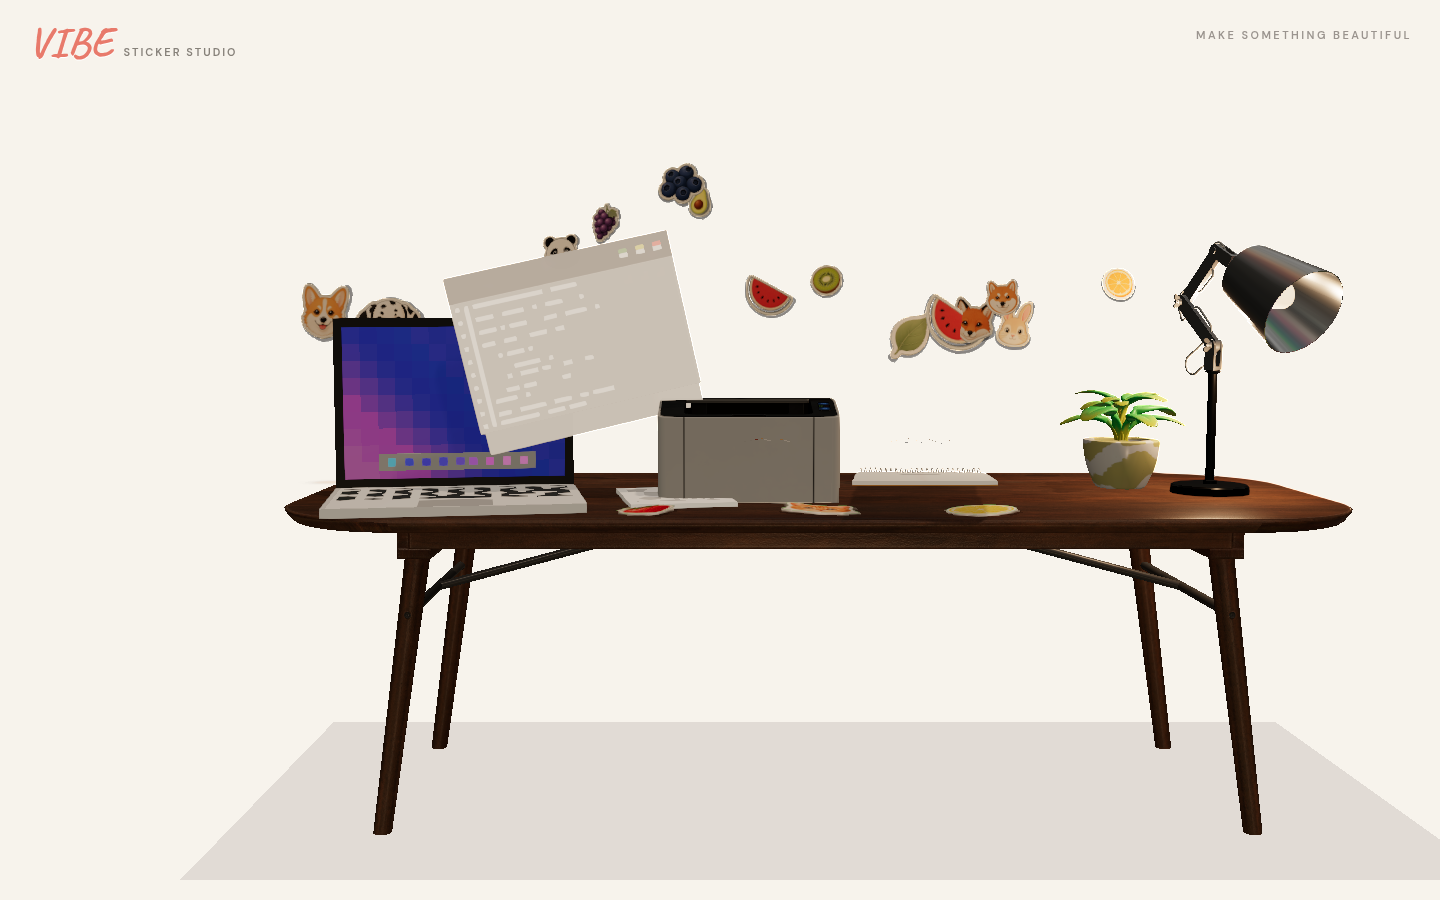
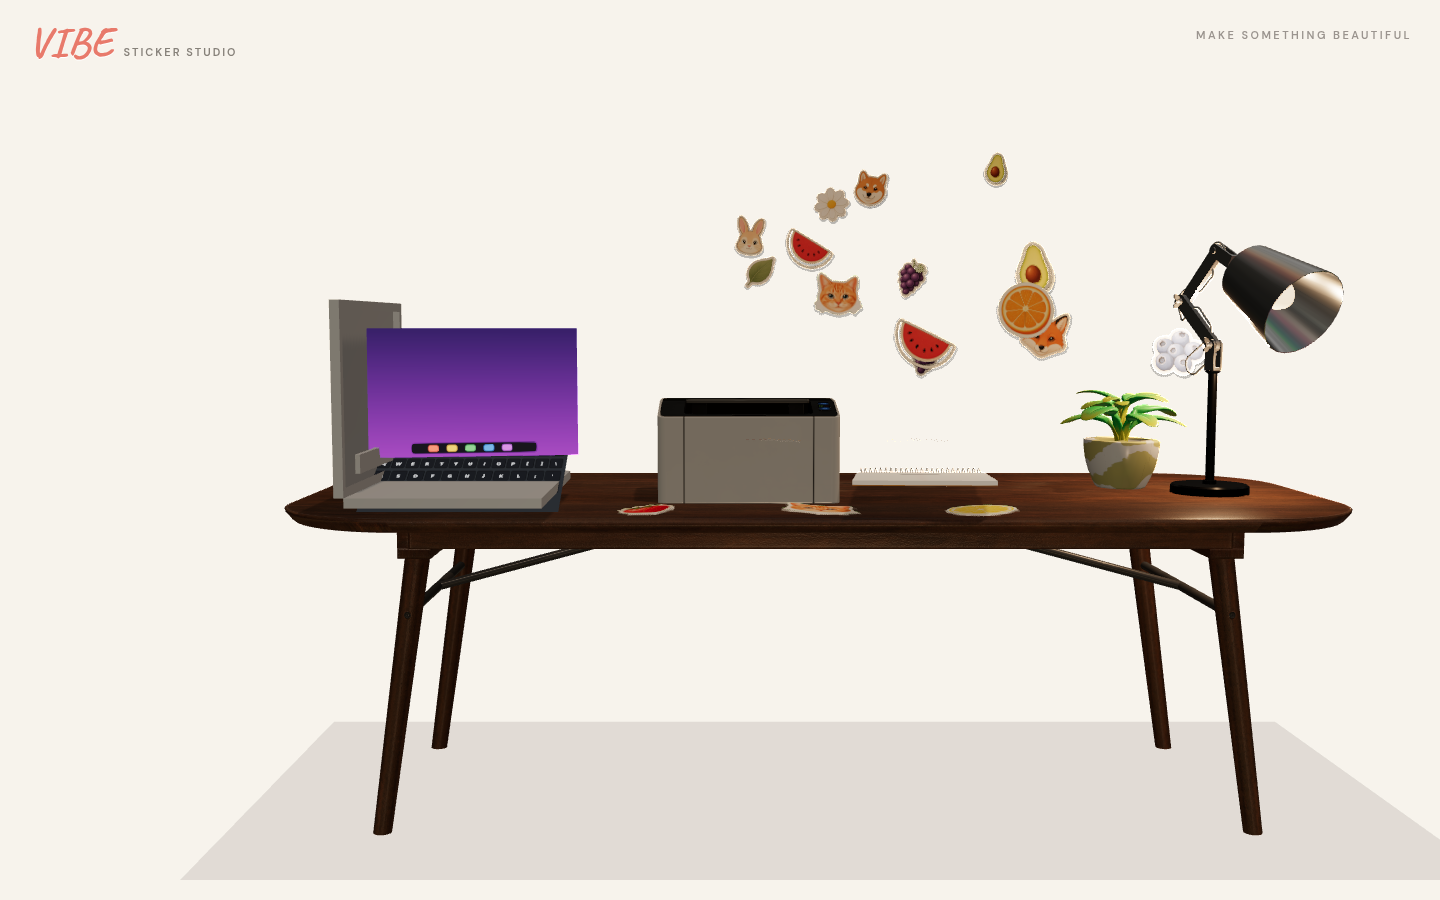
fix(studio): readable keycaps, kill glass pane, animal 0.22m keepout
- Replace palette-smear Object_8 with tipped keyPlane + keycaps albedo
- Remove transmission screen glass; opaque screenPlane; foot blob on deskTop
- XZ laptop keepout 0.22m purge for dog/animal floats; MSAA sticker edges
- Overwrite refs/qa-desk-layout-v2.png (also /workspace/studio-qa-shots/)

diff --git a/public/studio.html b/public/studio.html
@@ -248,8 +248,15 @@ ground.castShadow = false;
 ground.visible = false; // pure cream void — no wall/floor split
 scene.add(ground);
 
-/* ========== post: SMAA ========== */
-const composer = new EffectComposer(renderer);
+/* ========== post: MSAA RT + SMAA (LAYOUT §3 sticker edges) ========== */
+const _drawSize = new THREE.Vector2();
+renderer.getDrawingBufferSize(_drawSize);
+const composerRT = new THREE.WebGLRenderTarget(_drawSize.x, _drawSize.y, {
+  samples: Math.min(4, renderer.capabilities.maxSamples || 4),
+  type: THREE.HalfFloatType,
+  depthBuffer: true,
+});
+const composer = new EffectComposer(renderer, composerRT);
 composer.addPass(new RenderPass(scene, camera));
 const smaaPass = new SMAAPass(
   Math.floor(innerWidth * renderer.getPixelRatio()),
@@ -527,42 +534,90 @@ async function mountProps(){
           if (mats.some(m=>m && /palette\.001/i.test(m.name||''))) lidNode = o.parent || o;
         });
       }
-      root.traverse((o)=>{
-        if (!o.isMesh || !o.material) return;
-        const mats = Array.isArray(o.material) ? o.material : [o.material];
-        for (const m of mats){
-          if (!m) continue;
-          const map = m.map;
-          if (map){
-            map.colorSpace = THREE.SRGBColorSpace;
-            map.generateMipmaps = false;
-            map.minFilter = THREE.NearestFilter;
-            map.magFilter = THREE.NearestFilter;
-            map.wrapS = THREE.ClampToEdgeWrapping;
-            map.wrapT = THREE.ClampToEdgeWrapping;
-            map.anisotropy = 1;
-            map.needsUpdate = true;
-          }
-          if (m.emissiveIntensity != null && m.emissiveIntensity > 4){
-            m.emissiveIntensity = Math.min(m.emissiveIntensity, 1.2);
-          }
-          // Screen micro-glow (palette.001)
-          const mn=(m.name||o.name||'').toLowerCase();
-          if (/palette\.001|screen|display|lcd/.test(mn)){
-            if (!m.emissive) m.emissive = new THREE.Color(0xFFE8D0);
-            else m.emissive.lerp(new THREE.Color(0xFFE8D0), 0.4);
-            m.emissiveIntensity = Math.min(0.95, Math.max(0.45, m.emissiveIntensity || 0.6));
-            m.envMapIntensity = Math.max(0.8, m.envMapIntensity || 0.8);
-            // Kill ghost "floating window" from Sketchfab transmission glass
-            if (m.transmission != null) m.transmission = 0;
-            if (m.transparent) { m.opacity = Math.max(m.opacity ?? 1, 0.92); }
-            m.depthWrite = true;
-          } else {
-            m.envMapIntensity = Math.max(0.55, m.envMapIntensity || 0.55);
-          }
-          m.needsUpdate = true;
+      // Remap planar UVs from local bbox → readable 2D albedo (palette 256×1 cannot show keycaps)
+      const remapUV = (mesh, forceAxes) => {
+        const geo = mesh.geometry;
+        if (!geo || !geo.attributes.position) return;
+        if (!geo.attributes.uv) geo.setAttribute('uv', new THREE.BufferAttribute(new Float32Array(geo.attributes.position.count * 2), 2));
+        geo.computeBoundingBox();
+        const bb = geo.boundingBox;
+        const size = new THREE.Vector3(); bb.getSize(size);
+        let uAx, vAx;
+        if (forceAxes){ uAx = forceAxes[0]; vAx = forceAxes[1]; }
+        else {
+          const axes = [['x', size.x], ['y', size.y], ['z', size.z]].sort((a,b)=>b[1]-a[1]);
+          uAx = axes[0][0]; vAx = axes[1][0];
         }
+        const pos = geo.attributes.position;
+        const uv = geo.attributes.uv;
+        const minU = bb.min[uAx], spanU = (bb.max[uAx]-bb.min[uAx]) || 1;
+        const minV = bb.min[vAx], spanV = (bb.max[vAx]-bb.min[vAx]) || 1;
+        for (let i = 0; i < pos.count; i++){
+          const p = { x: pos.getX(i), y: pos.getY(i), z: pos.getZ(i) };
+          uv.setXY(i, (p[uAx]-minU)/spanU, 1 - (p[vAx]-minV)/spanV);
+        }
+        uv.needsUpdate = true;
+      };
+      const loadLaptopTex = (url) => new Promise((resolve) => {
+        texLoader.load(url, (tex) => {
+          tex.colorSpace = THREE.SRGBColorSpace;
+          tex.generateMipmaps = true;
+          tex.minFilter = THREE.LinearMipmapLinearFilter;
+          tex.magFilter = THREE.LinearFilter;
+          tex.anisotropy = Math.min(8, renderer.capabilities.getMaxAnisotropy());
+          tex.wrapS = tex.wrapT = THREE.ClampToEdgeWrapping;
+          tex.needsUpdate = true;
+          resolve(tex);
+        }, undefined, () => resolve(null));
       });
+      // Sync load via already-cached loader path — use TextureLoader sync pattern with await outside
+      // Materials applied after textures resolve below
+      const keyTexP = loadLaptopTex(`${ASSET}/glb/laptop/textures/keycaps_baseColor.png`);
+      const scrTexP = loadLaptopTex(`${ASSET}/glb/laptop/textures/screen_desktop.png`);
+      // stash promises on wrap; await before continue is hard inside sync loop — use then
+      await Promise.all([keyTexP, scrTexP]).then(([keyTex, scrTex]) => {
+        root.traverse((o)=>{
+          if (!o.isMesh || !o.material) return;
+          const mats = Array.isArray(o.material) ? o.material : [o.material];
+          for (let mi = 0; mi < mats.length; mi++){
+            let m = mats[mi];
+            if (!m) continue;
+            const mn=((m.name||'')+' '+(o.name||'')+' '+(o.parent?.name||'')).toLowerCase();
+            if (/palette\.001|screen|display|lcd|laptop\.001|laptop001/.test(mn)){
+              // REMOVE transmission glass entirely (was floating IDE pane even when visible=false in some paths)
+              if (m.transmission != null) m.transmission = 0;
+              m.transparent = false; m.opacity = 1;
+              o.visible = false;
+              o.parent?.remove(o);
+              // Thin screen plane added once after traverse (see below)
+              wrap.userData._needScreen = true;
+              wrap.userData._scrTex = scrTex;
+              continue;
+            }
+            if (/palette\.002|laptop\.002|laptop002/.test(mn)){
+              o.visible = false; // author key UVs = smear; replace with deck plane
+              wrap.userData._needKeys = true;
+              wrap.userData._keyTex = keyTex;
+              continue;
+            }
+            // Chassis palette → solid silver (256×1 strip = wavy smear on deck)
+            if (/(^|\s)palette(\s|$)/.test(mn) && !/palette\.00/.test(mn)){
+              m.map = null;
+              m.color = new THREE.Color(0xC5C9CE);
+              m.roughness = 0.45;
+              m.metalness = 0.35;
+              m.emissive = new THREE.Color(0x000000);
+              m.emissiveIntensity = 0;
+              m.transparent = false;
+              m.opacity = 1;
+              if (m.transmission != null) m.transmission = 0;
+              m.envMapIntensity = 0.85;
+              m.needsUpdate = true;
+            }
+          }
+        });
+      });
+
       // Hinge 105° + face camera + seat (LAYOUT-STICKER-LOCK / v2 front)
       {
         // Tip lid PAST upright toward open 105° (author ≈90°; +15° opens further)
@@ -615,6 +670,35 @@ async function mountProps(){
           wrap.userData.screenFacing = bestScore;
           wrap.updateMatrixWorld(true);
         }
+        // Build readable screen as thin plane on wrap (after yaw), facing camera
+        if (wrap.userData._needScreen && wrap.userData._scrTex && !wrap.userData._screenPlane){
+          const scrTex = wrap.userData._scrTex;
+          const mat = new THREE.MeshStandardMaterial({
+            name: 'screen_desktop',
+            map: scrTex,
+            emissive: new THREE.Color(0xffffff),
+            emissiveMap: scrTex,
+            emissiveIntensity: 0.7,
+            roughness: 0.4,
+            metalness: 0,
+            side: THREE.FrontSide,
+            transparent: false,
+            depthWrite: true,
+          });
+          const plane = new THREE.Mesh(new THREE.PlaneGeometry(0.42, 0.26), mat);
+          plane.name = 'screenPlane';
+          // place above keyboard toward open lid
+          plane.position.set(0, 0.22, -0.02);
+          wrap.add(plane);
+          plane.lookAt(plane.worldToLocal(camera.position.clone()));
+          // better: face +Z of wrap which faces cam after yaw
+          plane.rotation.set(0, 0, 0);
+          plane.position.set(0.02, 0.20, 0.12);
+          // orient plane normal toward camera
+          const toCam = camera.position.clone().sub(plane.getWorldPosition(new THREE.Vector3())).normalize();
+          plane.lookAt(plane.localToWorld(new THREE.Vector3(0,0,0)).add(toCam));
+          wrap.userData._screenPlane = plane;
+        }
       }
       {
         const bbH = new THREE.Box3().setFromObject(root);
@@ -624,6 +708,23 @@ async function mountProps(){
           fitProp(root, 0.82, 'bottom', 'xz');
         }
       }
+
+        if (wrap.userData._needKeys && wrap.userData._keyTex && !wrap.userData._keyPlane){
+          // Tip toward camera (~28°) so elev-5° front view can read glyphs (flat deck foreshortens to smear-grey)
+          const keyMat = new THREE.MeshBasicMaterial({
+            name: 'keycaps',
+            map: wrap.userData._keyTex,
+            side: THREE.DoubleSide,
+            toneMapped: false,
+          });
+          const kp = new THREE.Mesh(new THREE.PlaneGeometry(0.40, 0.26), keyMat);
+          kp.name = 'keyPlane';
+          kp.rotation.x = -Math.PI / 2 + 0.48;
+          kp.position.set(0.0, 0.028, 0.10);
+          wrap.add(kp);
+          wrap.userData._keyPlane = kp;
+        }
+
       // Force seat on deskTop local Y=0 (never float)
       {
         wrap.position.x = cfg.pos[0];
@@ -645,10 +746,13 @@ async function mountProps(){
         if (max2.x > deskHalfX) wrap.position.x -= (max2.x - deskHalfX) + 0.02;
         if (min2.z < -deskHalfZ) wrap.position.z += (-deskHalfZ - min2.z) + 0.02;
         if (max2.z > deskHalfZ) wrap.position.z -= (max2.z - deskHalfZ) + 0.02;
-        const foot = makeBlobShadow(0.30);
-        foot.position.set(0.012, 0.001, 0.012);
-        foot.material.opacity = 0.22;
-        wrap.add(foot);
+        // Contact blob on deskTop (NOT wrap) — parenting to wrap made it a vertical "IDE window"
+        const foot = makeBlobShadow(0.32);
+        foot.rotation.x = -Math.PI / 2;
+        const fp = new THREE.Vector3(cfg.pos[0], 0.002, cfg.pos[2]);
+        foot.position.copy(fp);
+        foot.material.opacity = 0.20;
+        deskTop.add(foot);
       }
     }
 
@@ -1102,7 +1206,8 @@ function createFlatThickSticker(w, h, tex, thickness = 0.004){
       roughness: isFront ? 0.74 : 0.80,
       metalness: 0.0,
       transparent: true,
-      alphaTest: 0.22, // softer edge w/ SMAA (was 0.42 jagged)
+      alphaTest: 0.35,
+      alphaToCoverage: true, // needs MSAA RT — smooth die-cut edge
       depthWrite: isFront,
       depthTest: true,
       polygonOffset: true,
@@ -1124,8 +1229,9 @@ function createFlatThickSticker(w, h, tex, thickness = 0.004){
     map: edgeTex,
     color: 0x1a1008,
     transparent: true,
-    opacity: 0.48,
-    alphaTest: 0.22,
+    opacity: 0.40,
+    alphaTest: 0.35,
+    alphaToCoverage: true,
     depthWrite: false,
     side: THREE.DoubleSide,
   });
@@ -1197,11 +1303,15 @@ function laptopKeepoutCenter(){
   return _propBox.getCenter(new THREE.Vector3());
 }
 function hitsLaptopKeepout(x, y, z, extra=0){
-  const c = laptopKeepoutCenter();
-  if (!c) return false;
-  const r = 0.26 + extra; // v2: slightly larger than LOCK 0.22 to clear screen face
-  const dx=x-c.x, dy=y-c.y, dz=z-c.z;
-  return (dx*dx+dy*dy+dz*dz) < r*r;
+  // LAYOUT: XZ clearance to laptop footprint ≥ 0.22m (+extra). Y ignored so high C-far floats still purge.
+  if (!loadedProps.laptop) return false;
+  _propBox.setFromObject(loadedProps.laptop);
+  const minX=_propBox.min.x, maxX=_propBox.max.x, minZ=_propBox.min.z, maxZ=_propBox.max.z;
+  const cx=Math.max(minX, Math.min(x, maxX));
+  const cz=Math.max(minZ, Math.min(z, maxZ));
+  const dx=x-cx, dz=z-cz;
+  const need = 0.22 + extra;
+  return (dx*dx + dz*dz) < need*need;
 }
 function minGapToProps(pos, skipLampBoost=false){
   let minGap = 1e9;
@@ -1349,7 +1459,8 @@ function spawnFloatSticker(layer){
       hz = -0.35 + Math.random()*0.40;
       hy = topY + 0.42 + Math.random()*0.30;
     }
-    if (hitsLaptopKeepout(hx, hy, hz, 0.02)) continue;
+    if (hitsLaptopKeepout(hx, hy, hz, 0.04)) continue;
+    if (/shiba|dalmatian|corgi|fox|panda|dog|rabbit/i.test(pick.file||'') && hitsLaptopKeepout(hx, hy, hz, 0.0)) continue;
     if (minGapToProps(new THREE.Vector3(hx,hy,hz)) < 0) continue;
     _tmp.set(hx, hy, hz).project(camera);
     const sx = _tmp.x*0.5+0.5, sy = -_tmp.y*0.5+0.5;
@@ -1683,6 +1794,8 @@ addEventListener('resize', () => {
   renderer.setPixelRatio(Math.min(devicePixelRatio || 1, maxPR));
   renderer.setSize(innerWidth, innerHeight, false);
   composer.setSize(innerWidth, innerHeight);
+  renderer.getDrawingBufferSize(_drawSize);
+  composerRT.setSize(_drawSize.x, _drawSize.y);
   smaaPass.setSize(
     Math.floor(innerWidth * renderer.getPixelRatio()),
     Math.floor(innerHeight * renderer.getPixelRatio())
@@ -1740,6 +1853,7 @@ placeLockRow();
 placeLidPins();
 window.__stickers = stickers;
 window.__cam = camera;
+window.__scene = scene;
 window.THREE = THREE;
 window.__floatQA = () => {
   const floats = stickers.filter(s=>s.state==='float');
@@ -1840,6 +1954,17 @@ if (!noFloats){
   for (const layer of plan){
     if (stickers.filter(s => s.state === 'float').length >= FLOAT_CAP) break;
     spawnFloatSticker(layer);
+  }
+  // Purge floats inside laptop XZ keepout; animals get full 0.22m (no extra shrink)
+  for (let i = stickers.length - 1; i >= 0; i--){
+    const s = stickers[i];
+    if (s.state !== 'float' || s.layerKind === 'A') continue;
+    const p = s.group.position;
+    const animal = /shiba|dalmatian|corgi|dog|panda|fox|rabbit/i.test(s.file||'');
+    if (hitsLaptopKeepout(p.x, p.y, p.z, animal ? 0.0 : -0.06)){
+      scene.remove(s.group); if (s.shadow) scene.remove(s.shadow); if (s.shadowSoft) scene.remove(s.shadowSoft);
+      stickers.splice(i, 1);
+    }
   }
 }
 SPAWN_EVERY = reduceMotion ? 1.6 : 0.85;
